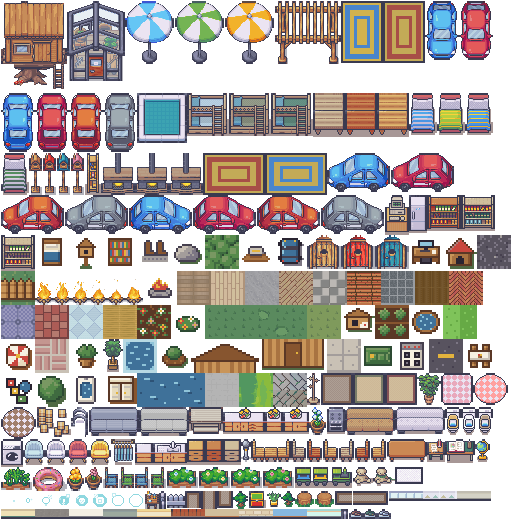
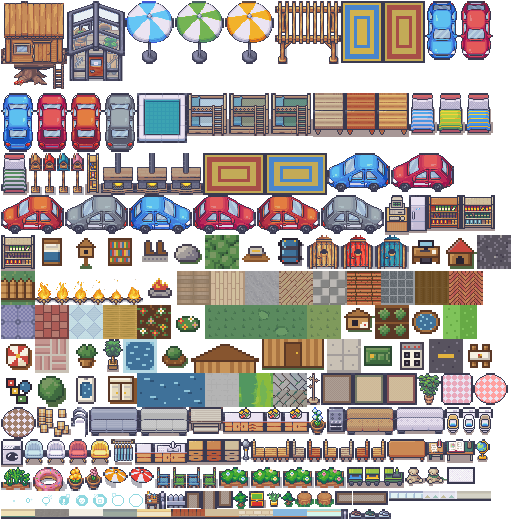
M5a pieces: a small parasol over a Patio's table where a door opens onto it; a Pergola keeps its posts off the mat
Folding the full parasol away left a Patio with a door bare. Where a door opens onto a Patio, its
table and seats stand under the audit prototype's small parasol (LimeZu's, cut in orange and
red), all clear of the door. A Pergola is an open frame of slats: its slats may roof a door's mat
(a covered porch), its posts never stand on one, and its badge shows where they would. Tested.

Changed region(s): [[0.1875, 0.8923, 0.9375, 0.9538]]

diff --git a/src/ui/art/yard.ts b/src/ui/art/yard.ts
@@ -15,8 +15,8 @@
 //   the hens. Fixtures: the Sprinkler on its Lawn, the Pergola over its Patio, Garden Lights as
 //   two bollards with their glow; a fixture's badge shows only where a door keeps it off.
 // - Nothing stands on an outside door's mat or in front of its opening: a Patio's seats move
-//   clear of the door that opens onto it (its parasol stays folded away), and the car parks
-//   further along its Driveway, or on the next one.
+//   clear of the door that opens onto it (under a small parasol in place of the full one), and
+//   the car parks further along its Driveway, or on the next one.
 // - Parts of items above their piece's own cells (the Greenhouse's roof, the Treehouse, a
 //   Birdhouse's box, a car's roof) carry `over`, and go on the overhang layer above the walls.
 //
@@ -403,17 +403,21 @@ class Yard {
     return this.box.w >= this.box.h;
   }
 
-  /** Whether a sprite with its top-left at (x, y) keeps off the keep-outs and the doors. */
-  fits(sprite: Item['sprite'], x: number, y: number): boolean {
+  /**
+   * Whether a sprite with its top-left at (x, y) keeps off the keep-outs and the doors: all of it,
+   * or just its `posts` (rects within it) for an open frame the doors show through (the Pergola).
+   */
+  fits(sprite: Item['sprite'], x: number, y: number, posts?: readonly Rect[]): boolean {
     const { w, h } = artSize(sprite);
     const foot = { x, y: y + Math.max(0, h - 8), w, h: Math.min(h, 8) };
     if (this.ctx.keepOut.some((k) => overlaps(foot, k))) return false;
-    return !this.ctx.doors.some((d) => overlaps({ x, y, w, h }, d));
+    const solid = posts?.map((r) => ({ ...r, x: x + r.x, y: y + r.y })) ?? [{ x, y, w, h }];
+    return !this.ctx.doors.some((d) => solid.some((r) => overlaps(r, d)));
   }
 
   /** Places a sprite with its top-left at (x, y), unless it would stand on a keep-out or a door. */
-  put(sprite: Item['sprite'], x: number, y: number): boolean {
-    if (!this.fits(sprite, x, y)) return false;
+  put(sprite: Item['sprite'], x: number, y: number, posts?: readonly Rect[]): boolean {
+    if (!this.fits(sprite, x, y, posts)) return false;
     this.items.push({ sprite, x, y });
     return true;
   }
@@ -537,6 +541,12 @@ function poolTiles(y: Yard): void {
 }
 
 const PARASOLS: readonly SpriteId[] = ['parasol-0', 'parasol-1', 'parasol-2'];
+const SMALL_PARASOLS: readonly SpriteId[] = ['parasol-small-0', 'parasol-small-1'];
+/** The Pergola's posts, within its sprite: the rest is slats a door's mat shows through. */
+const PERGOLA_POSTS: readonly Rect[] = [
+  { x: 1, y: 40, w: 11, h: 21 },
+  { x: 52, y: 40, w: 11, h: 21 },
+];
 const PLANTERS: readonly SpriteId[] = ['planter-0', 'planter-1', 'planter-2', 'planter-3'];
 const COOPS: readonly SpriteId[] = ['coop-0', 'coop-1', 'coop-2'];
 const BIRDHOUSES: readonly SpriteId[] = [
@@ -547,10 +557,18 @@ const BIRDHOUSES: readonly SpriteId[] = [
 ];
 
 /** A seat on each side of a little table, facing it: where they keep off the doors, or none. */
-function seats(y: Yard, x: number, base: number, offsets: readonly [number, number][]): boolean {
+function seats(
+  y: Yard,
+  x: number,
+  base: number,
+  offsets: readonly [number, number][],
+  parasol?: SpriteId,
+): boolean {
   const color = (y.hash >>> 4) % 2;
   return y.group(
     [
+      // A small parasol's canopy just over the table's top, behind the seats.
+      ...(parasol ? [[parasol, x - 5, base - 31] as [SpriteId, number, number]] : []),
       [color ? 'patio-chair-e-1' : 'patio-chair-e-0', x - 15, base - 19],
       [color ? 'patio-chair-w-1' : 'patio-chair-w-0', x + 14, base - 19],
       ['patio-table', x, base - 16],
@@ -576,8 +594,8 @@ const LAYOUTS: Partial<Record<PieceId, (y: Yard) => void>> = {
     y.edge(EDGE.pavers);
     const { x, y: top, w, h } = y.box;
     // The table in the middle, near the front; its seats either side. Where a door opens onto
-    // the patio, they move clear of its mat (to the back, or a side), and the parasol, whose
-    // canopy covers most of the patio, stays folded away.
+    // the patio, they move clear of its mat (to the back, or a side), and a small parasol over
+    // the table stands in for the full one, whose canopy covers most of the patio.
     const tx = x + w / 2 - 6;
     const base = top + h - 3;
     const room = (dy: number): [number, number][] => [
@@ -588,7 +606,8 @@ const LAYOUTS: Partial<Record<PieceId, (y: Yard) => void>> = {
     const moves = [...room(0), ...room(-(h - 26))];
     if (y.fixture === 'pergola') {
       seats(y, tx, base - 6, moves);
-      y.fixtureShown = y.put('pergola', x, top + h - 61);
+      // An open frame of slats on two posts: only its posts keep off a door's mat.
+      y.fixtureShown = y.put('pergola', x, top + h - 61, PERGOLA_POSTS);
     } else {
       // The parasol's stand behind the table, its canopy over the seats.
       const parasol = y.put(
@@ -596,7 +615,9 @@ const LAYOUTS: Partial<Record<PieceId, (y: Yard) => void>> = {
         x + Math.floor((w - 47) / 2),
         base - 61 - 4,
       );
-      seats(y, tx, base, parasol ? [[0, 0]] : moves);
+      if (parasol) seats(y, tx, base, [[0, 0]]);
+      else
+        seats(y, tx, base, moves, pick(SMALL_PARASOLS, y.ctx.color)) || seats(y, tx, base, moves);
     }
   },
 

diff --git a/src/ui/art/yard.test.ts b/src/ui/art/yard.test.ts
@@ -321,8 +321,33 @@ describe('outside doors', () => {
       expect(overlaps(rect(it), door.mat), it.sprite).toBe(false);
       expect(overlaps(rect(it), door.gap), it.sprite).toBe(false);
     }
-    // Its table and seats still stand on it, clear of the door.
+    // Its table and seats still stand on it, clear of the door, under a small parasol (the
+    // full one would cover the door).
     expect(items.some((i) => i.sprite === 'patio-table')).toBe(true);
+    expect(items.some((i) => i.sprite.startsWith('parasol-small-'))).toBe(true);
+    expect(items.some((i) => /^parasol-\d/.test(i.sprite))).toBe(false);
+  });
+
+  it('let a Pergola’s slats cover a door’s mat, but never its posts', () => {
+    // South of the house, the door's mat is under its slats, clear of its posts: it shows.
+    const south = house([
+      ['livingRoom', 4, 2],
+      ['patio', 4, 5, 0, 'pergola'],
+    ]);
+    const sm = houseModel(south);
+    const l = yardModel(south, sm).pieces.get(2)!;
+    expect(l.items.some((i) => i.sprite === 'pergola')).toBe(true);
+    expect(l.fixtureShown).toBe(true);
+    // North of it, the door's mat is where a post would stand: the badge shows instead.
+    const north = house([
+      ['kitchen', 4, 4],
+      ['patio', 4, 2, 0, 'pergola'],
+    ]);
+    const nm = houseModel(north);
+    expect(nm.exits.some((e) => e.onto === 2 && e.side === 'N')).toBe(true);
+    const n = yardModel(north, nm).pieces.get(2)!;
+    expect(n.items.some((i) => i.sprite === 'pergola')).toBe(false);
+    expect(n.fixtureShown).toBe(false);
   });
 
   it('park the car further along, or on the next Driveway, off a door’s mat', () => {

diff --git a/docs/implementation-plan.md b/docs/implementation-plan.md
@@ -1537,7 +1537,7 @@ Intensity is measured against **pace**: `max(1, (this phase's target − the sco
   - Their ground goes on the floor canvas, under the house's shadow: a Lawn's mown stripes, a Patio's herringbone pavers, a Driveway's concrete with a curb cut through the sidewalk where it meets the street, and a Pool's and a Hot Tub's water inside LimeZu's white coping (a 3 × 3 sheet of its tiles, laid over any rectangle). A flat piece has a darker 1 px edge, softer where it meets another piece of its kind (two Lawns, a Driveway and a Long Driveway), so touching pieces read as one patch and each stays countable (D-093). A piece's ground stays on its own cells.
   - Their props stand on their cells as items, so they wobble and settle with their piece: a parasol over a table and two chairs on a Patio; the house's one parked car on its oldest Driveway with room for it (nose in, or side on facing the house), orange or grey so it never matches the Garage's; a Pool's ladder and float; the Hot Tub's foam; the Fire Pit's animated fire in front of two stumps; a planter on a Flower Bed, and one per cell of a Herb Garden with greens instead of flowers; the Sapling on its soil; LimeZu's Greenhouse and modular Treehouse; a shed's front as the Henhouse's coop, with two hens on straw behind a picket front in its other cell; a Birdhouse on its pole.
   - Where LimeZu has none, our own drawings in its palette and ink: the Doghouse, the hens and the Sprinkler (`src/ui/art/drawings.ts`).
-  - No prop stands on an outside door's mat or in front of its opening (nor rises over one on the overhang layer): a Patio's table and seats move clear of the door that opens onto it, its parasol stays folded away, and the car parks further along its Driveway, or on the next one.
+  - No prop stands on an outside door's mat or in front of its opening (nor rises over one on the overhang layer): a Patio's table and seats move clear of the door that opens onto it, under a small parasol in place of the full one (the audit prototype's), a Pergola's slats may roof a mat but its posts never stand on one (its badge shows where they would), and the car parks further along its Driveway, or on the next one.
   - A Fence is a white picket line through the middle of its cells, out to their edges at its ends, with a post at each end and turn (LimeZu's pickets, posts and end-on strip, after the exteriors audit's line autotile). Two Fences join only through an end's open side (the way its line runs on): in a corner or a T; end to end, each keeps its end post, so each stays countable; side by side, their ends never close them into a pen. A Fence's ghost is the Fence alone.
   - What rises above a piece's own cells (the Greenhouse's roof, the Treehouse, a Birdhouse's box, a side-on car's roof) goes on the overhang layer, over the walls. The Greenhouse and the Treehouse are cut down to rise less than a cell, so a piece behind them still shows.
   - Pieces of a type differ in color (parasols, planters, coops, birdhouses) the way rooms do, and a ghost takes the color its piece will have (or has, when the Moving Truck carries it, with its fixture).
